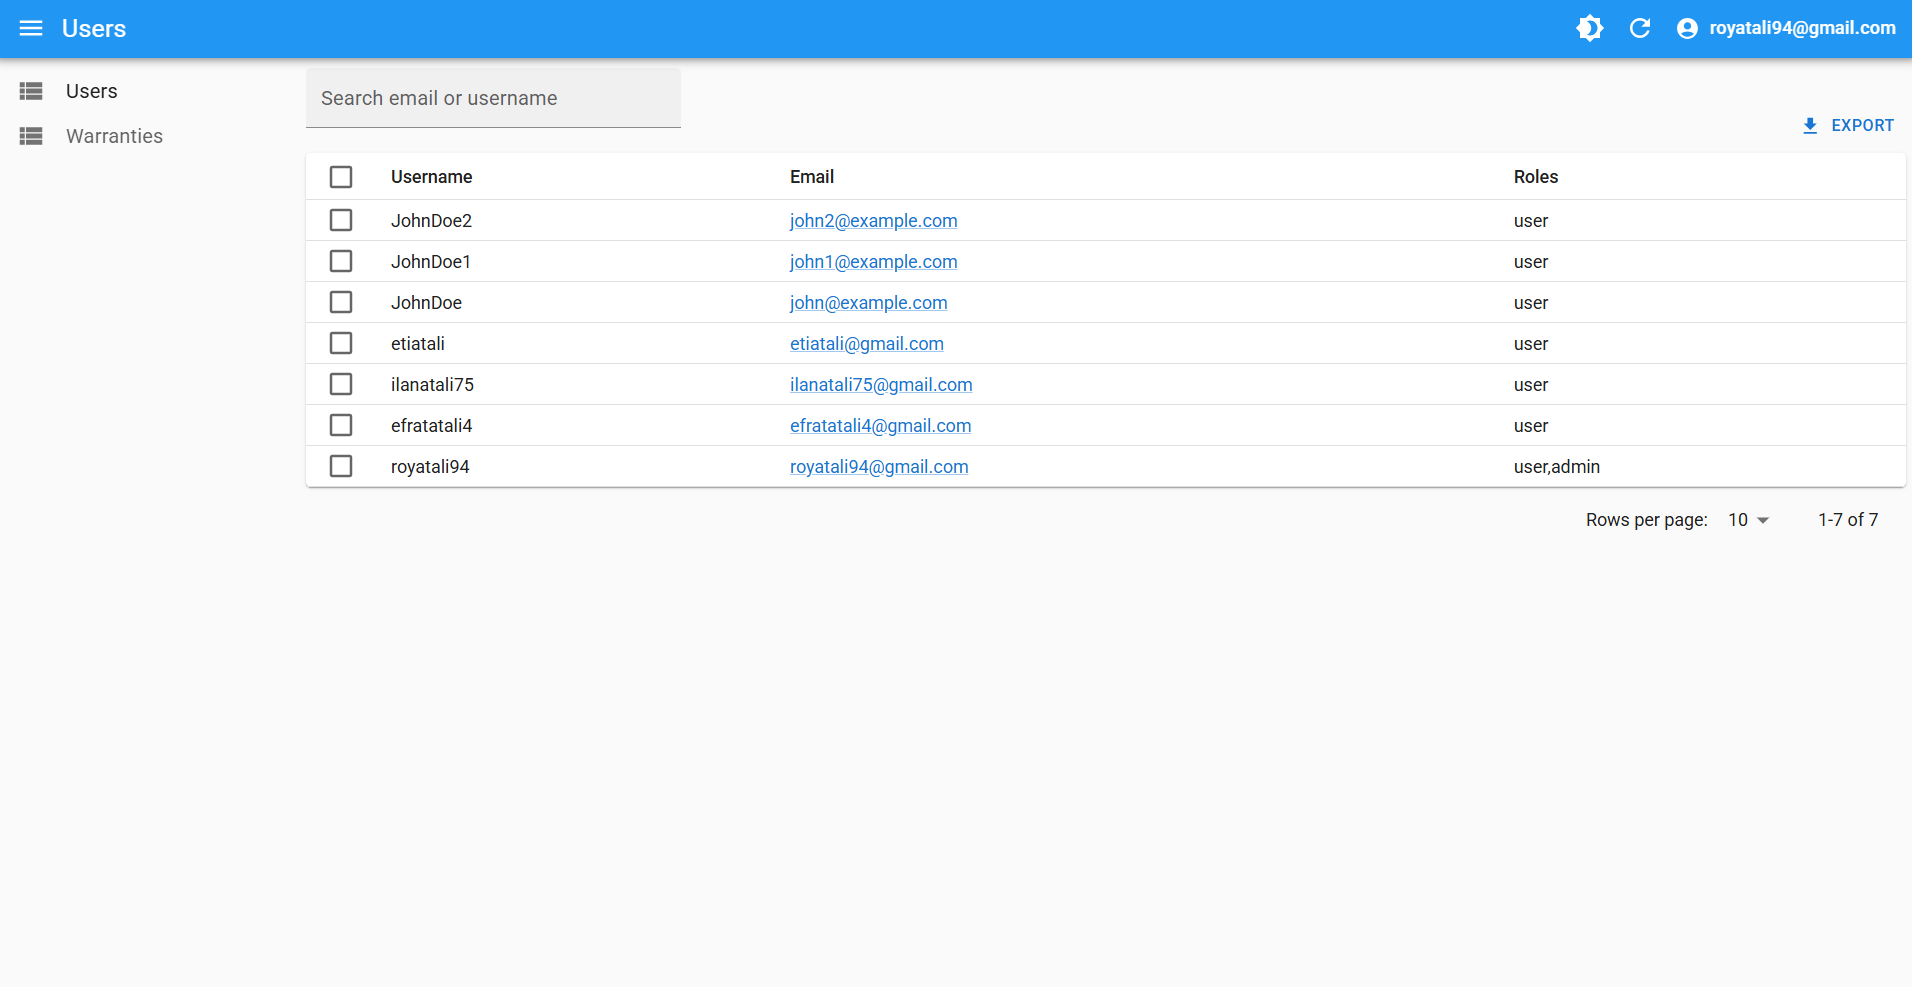
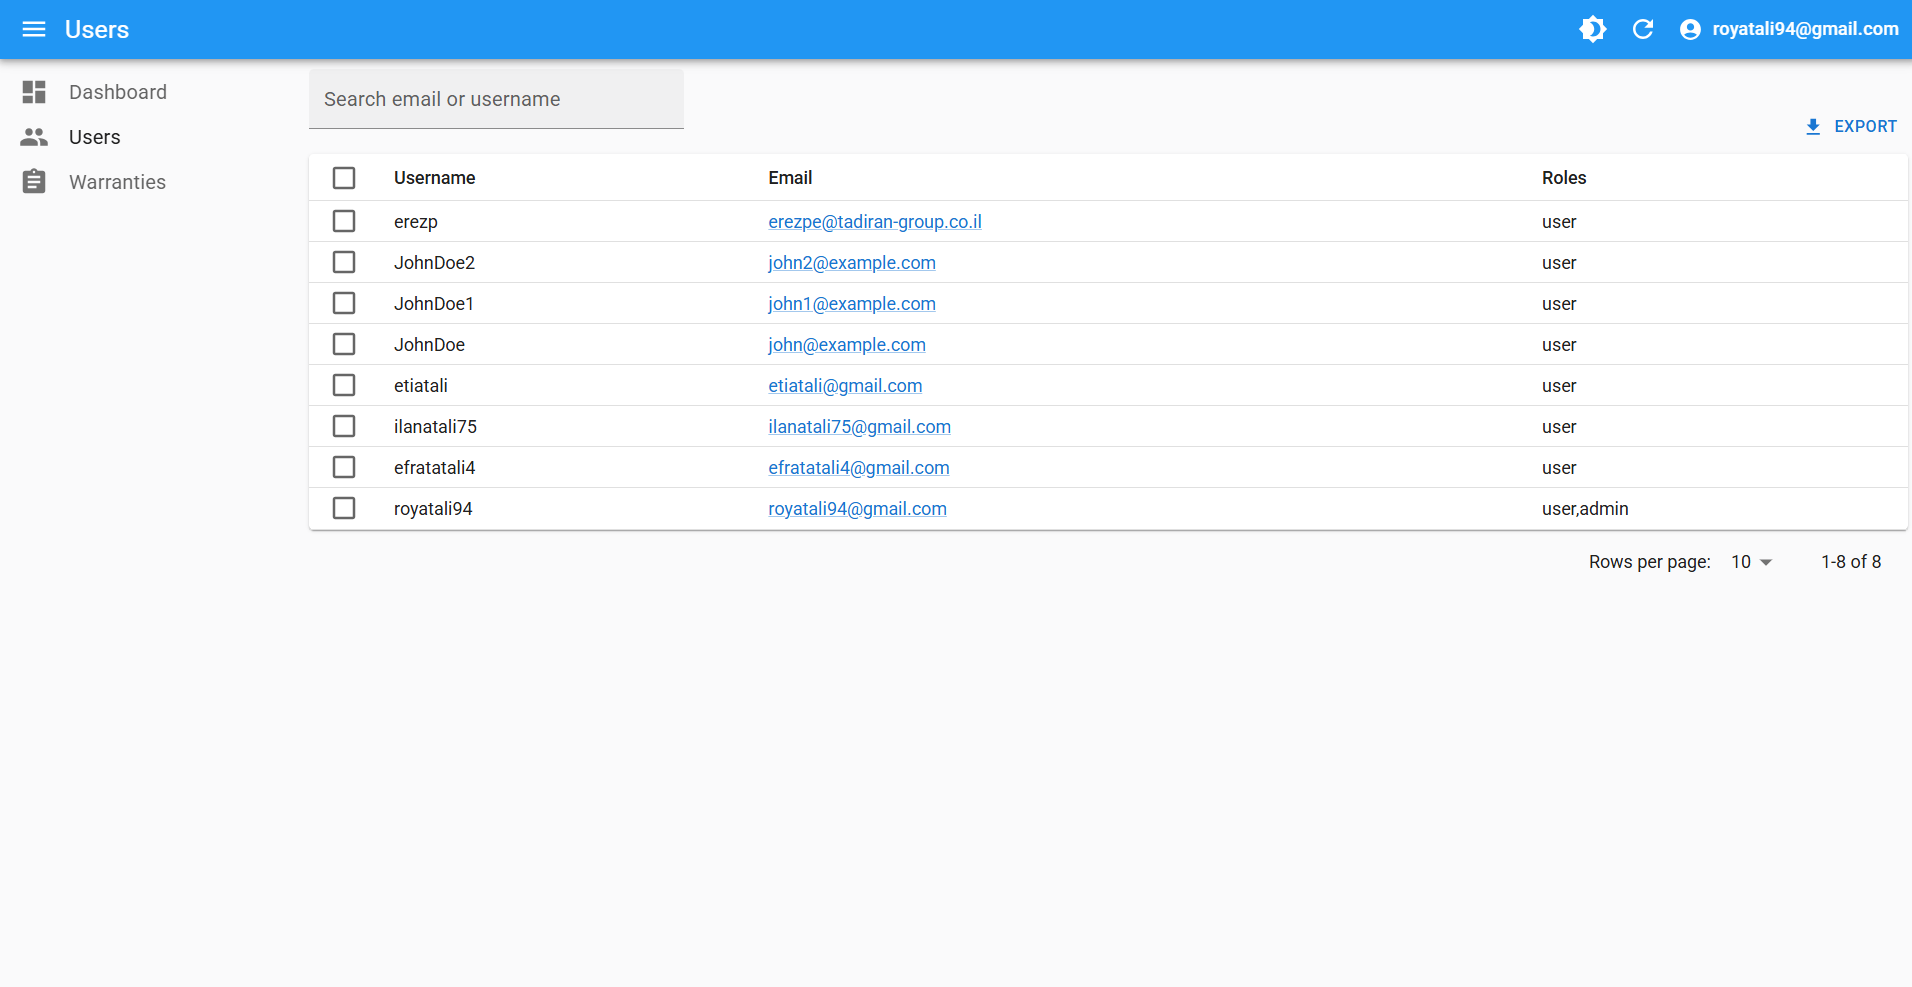
Improved react-admin and updated README.md files with the images

diff --git a/admin/src/App.tsx b/admin/src/App.tsx
@@ -1,18 +1,27 @@
 import { Admin, Resource } from "react-admin";
+import PeopleIcon from "@mui/icons-material/People";
+import AssignmentIcon from "@mui/icons-material/Assignment";
 import { Layout } from "./Layout";
 import { dataProvider } from "./api/dataProvider";
 import UsersList from "./pages/UsersList";
 import WarrantiesList from "./pages/WarrantiesList";
 import WarrantyEdit from "./pages/WarrantyEdit";
 import { authProvider } from "./api/authProvider";
+import Dashboard from "./pages/Dashboard";
 
 export const App = () => (
   <Admin
     layout={Layout}
+    dashboard={Dashboard}
     dataProvider={dataProvider}
     authProvider={authProvider}
   >
-    <Resource name="users" list={UsersList} />
-    <Resource name="warranties" list={WarrantiesList} edit={WarrantyEdit} />
+    <Resource name="users" list={UsersList} icon={PeopleIcon} />
+    <Resource
+      name="warranties"
+      list={WarrantiesList}
+      edit={WarrantyEdit}
+      icon={AssignmentIcon}
+    />
   </Admin>
 );

diff --git a/admin/src/pages/Dashboard.tsx b/admin/src/pages/Dashboard.tsx
@@ -1,0 +1,15 @@
+// src/pages/Dashboard.tsx
+import { Card, CardContent, Typography } from "@mui/material";
+
+const Dashboard = () => (
+  <Card>
+    <CardContent>
+      <Typography variant="h5">Welcome to the Admin Dashboard</Typography>
+      <Typography variant="body1">
+        Use the sidebar to manage users and warranties.
+      </Typography>
+    </CardContent>
+  </Card>
+);
+
+export default Dashboard;

diff --git a/admin/README.md b/admin/README.md
@@ -252,6 +252,10 @@ npm install
 
 ![alt text](../assets/react-admin-login.png)
 
+## Dashboard
+
+![alt text](../assets/dashboard.png)
+
 ## Users
 
 ![alt text](../assets/users.png)

diff --git a/backend/README.md b/backend/README.md
@@ -253,6 +253,10 @@ npm install
 
 ![alt text](../assets/react-admin-login.png)
 
+## Dashboard
+
+![alt text](../assets/dashboard.png)
+
 ## Users
 
 ![alt text](../assets/users.png)

diff --git a/mobile/README.md b/mobile/README.md
@@ -252,6 +252,10 @@ npm install
 
 ![alt text](../assets/react-admin-login.png)
 
+## Dashboard
+
+![alt text](../assets/dashboard.png)
+
 ## Users
 
 ![alt text](../assets/users.png)

diff --git a/README.md b/README.md
@@ -252,6 +252,10 @@ npm install
 
 ![alt text](./assets/react-admin-login.png)
 
+## Dashboard
+
+![alt text](./assets/dashboard.png)
+
 ## Users
 
 ![alt text](./assets/users.png)
